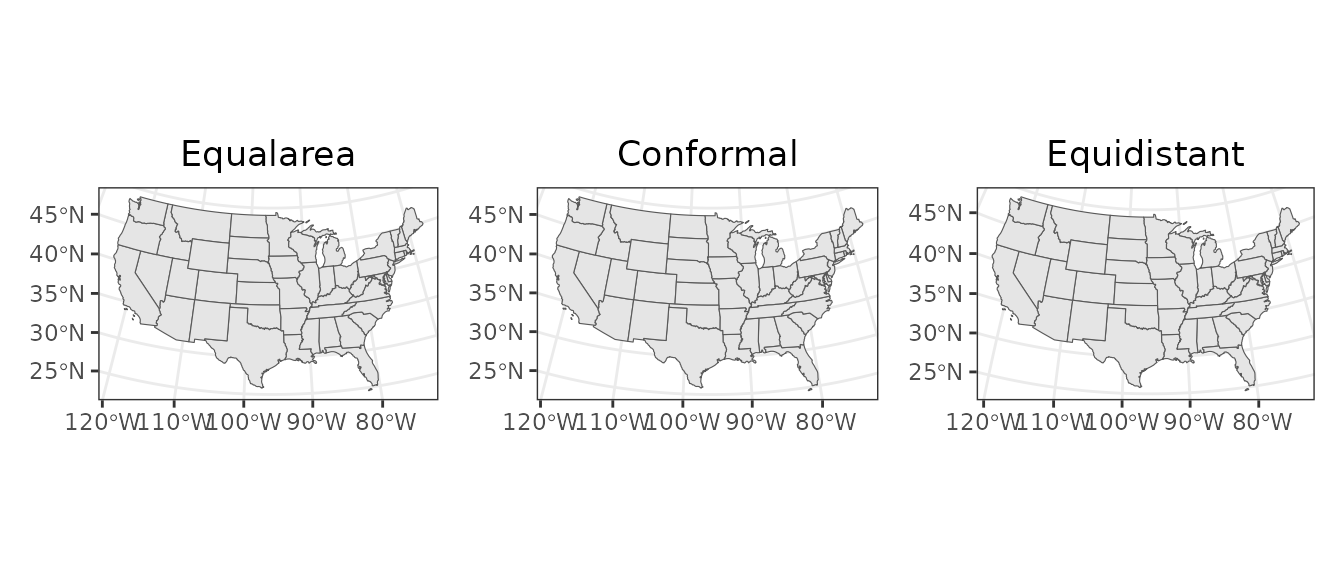
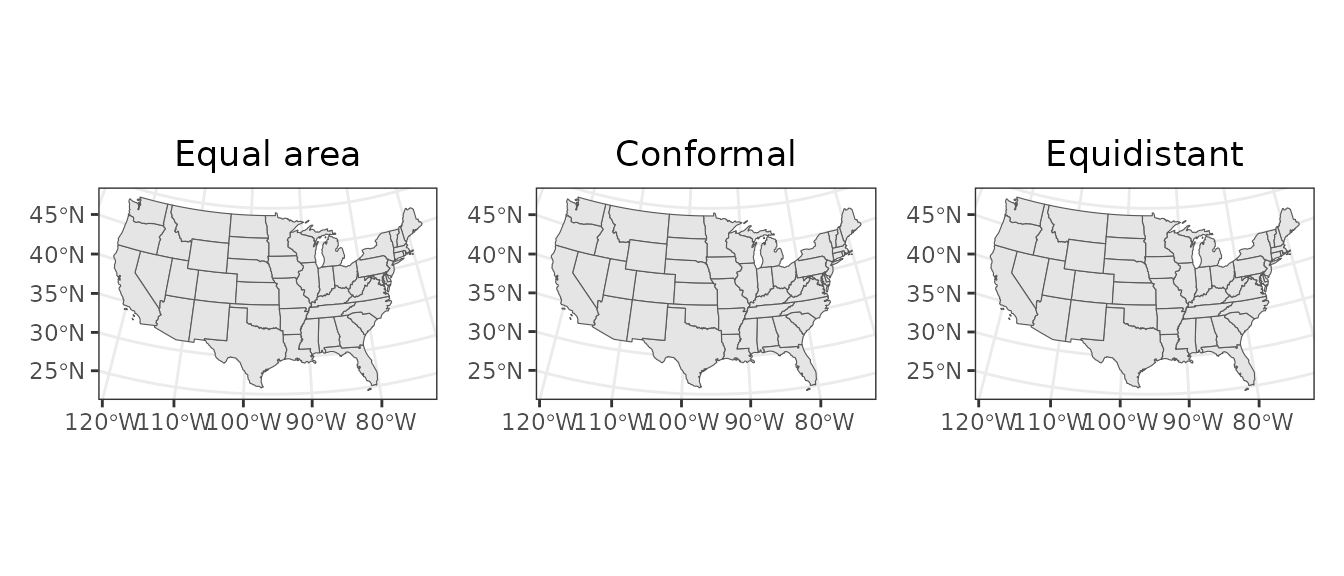
Deploying to gh-pages from @ sToney239/projWiz@8497ae9853b1d00fa35941c91100253194762885 🚀

diff --git a/articles/projWiz.html b/articles/projWiz.html
@@ -25,7 +25,7 @@
 
     <a class="navbar-brand me-2" href="../index.html">projWiz</a>
 
-    <small class="nav-text text-muted me-auto" data-bs-toggle="tooltip" data-bs-placement="bottom" title="">0.2.2</small>
+    <small class="nav-text text-muted me-auto" data-bs-toggle="tooltip" data-bs-placement="bottom" title="">0.2.3</small>
 
 
     <button class="navbar-toggler" type="button" data-bs-toggle="collapse" data-bs-target="#navbar" aria-controls="navbar" aria-expanded="false" aria-label="Toggle navigation">
@@ -102,7 +102,7 @@ projection wiki</a></p>
 <span>    <span class="fu"><a href="https://ggplot2.tidyverse.org/reference/theme.html" class="external-link">theme</a></span><span class="op">(</span>plot.title <span class="op">=</span> <span class="fu"><a href="https://ggplot2.tidyverse.org/reference/element.html" class="external-link">element_text</a></span><span class="op">(</span>hjust <span class="op">=</span> <span class="fl">0.5</span><span class="op">)</span><span class="op">)</span></span>
 <span><span class="op">}</span></span>
 <span><span class="fu">patchwork</span><span class="fu">::</span><span class="fu"><a href="https://patchwork.data-imaginist.com/reference/wrap_plots.html" class="external-link">wrap_plots</a></span><span class="op">(</span></span>
-<span>  <span class="fu"><a href="https://rdrr.io/r/base/list.html" class="external-link">list</a></span><span class="op">(</span><span class="fu">quick_proj_region_map</span><span class="op">(</span><span class="st">"Equalarea"</span><span class="op">)</span>,</span>
+<span>  <span class="fu"><a href="https://rdrr.io/r/base/list.html" class="external-link">list</a></span><span class="op">(</span><span class="fu">quick_proj_region_map</span><span class="op">(</span><span class="st">"Equal area"</span><span class="op">)</span>,</span>
 <span>       <span class="fu">quick_proj_region_map</span><span class="op">(</span><span class="st">"Conformal"</span><span class="op">)</span>,</span>
 <span>       <span class="fu">quick_proj_region_map</span><span class="op">(</span><span class="st">"Equidistant"</span><span class="op">)</span><span class="op">)</span></span>
 <span><span class="op">)</span></span></code></pre></div>
@@ -113,7 +113,7 @@ with similar optimized parameters have little difference.</p>
 <p>As mentioned, <code><a href="../reference/proj_equal_area.html">proj_equal_area()</a></code> is a pre-set parameter
 version of <code><a href="../reference/proj_region.html">proj_region()</a></code>. For example:</p>
 <div class="sourceCode" id="cb3"><pre class="downlit sourceCode r">
-<code class="sourceCode R"><span><span class="fu"><a href="../reference/proj_region.html">proj_region</a></span><span class="op">(</span><span class="fu">spData</span><span class="fu">::</span><span class="va"><a href="https://jakubnowosad.com/spData/reference/hawaii.html" class="external-link">hawaii</a></span>,<span class="st">"Equalarea"</span><span class="op">)</span></span>
+<code class="sourceCode R"><span><span class="fu"><a href="../reference/proj_region.html">proj_region</a></span><span class="op">(</span><span class="fu">spData</span><span class="fu">::</span><span class="va"><a href="https://jakubnowosad.com/spData/reference/hawaii.html" class="external-link">hawaii</a></span>,<span class="st">"Equal area"</span><span class="op">)</span></span>
 <span><span class="co">#&gt; [1] "+proj=laea +lon_0=-157.6784675 +lat_0=20.5786295 +datum=WGS84 +units=m +no_defs"</span></span>
 <span><span class="fu"><a href="../reference/proj_equal_area.html">proj_equal_area</a></span><span class="op">(</span><span class="fu">spData</span><span class="fu">::</span><span class="va"><a href="https://jakubnowosad.com/spData/reference/hawaii.html" class="external-link">hawaii</a></span><span class="op">)</span></span>
 <span><span class="co">#&gt; [1] "+proj=laea +lon_0=-157.6784675 +lat_0=20.5786295 +datum=WGS84 +units=m +no_defs"</span></span></code></pre></div>
@@ -139,8 +139,8 @@ the projection.</p>
 the central point’s longitude and latitude, or provide an object that
 allows the function to calculate the centroid.</p>
 <p>There are three main types of projections for hemisphere maps in
-<code>projWiz</code>: “Equalarea” (which is Equal area), “Conformal” and
-“Ortho” as showed below:</p>
+<code>projWiz</code>: “Equal area” (which is Equal area), “Conformal”
+and “Ortho” as showed below:</p>
 <div class="sourceCode" id="cb5"><pre class="downlit sourceCode r">
 <code class="sourceCode R"><span><span class="va">quick_hemisphere_map</span> <span class="op">=</span> <span class="kw">function</span><span class="op">(</span><span class="va">proj_type</span><span class="op">)</span> <span class="op">{</span></span>
 <span>  <span class="va">the_proj</span> <span class="op">=</span> <span class="fu"><a href="../reference/proj_hemisphere.html">proj_hemisphere</a></span><span class="op">(</span>obj <span class="op">=</span> <span class="fu"><a href="https://rdrr.io/r/base/list.html" class="external-link">list</a></span><span class="op">(</span>x <span class="op">=</span> <span class="fl">113</span>, y <span class="op">=</span> <span class="op">-</span><span class="fl">37</span><span class="op">)</span>, property <span class="op">=</span> <span class="va">proj_type</span><span class="op">)</span></span>
@@ -153,7 +153,7 @@ allows the function to calculate the centroid.</p>
 <span>    <span class="fu"><a href="https://ggplot2.tidyverse.org/reference/theme.html" class="external-link">theme</a></span><span class="op">(</span>plot.title <span class="op">=</span> <span class="fu"><a href="https://ggplot2.tidyverse.org/reference/element.html" class="external-link">element_text</a></span><span class="op">(</span>hjust <span class="op">=</span> <span class="fl">0.5</span><span class="op">)</span><span class="op">)</span></span>
 <span><span class="op">}</span></span>
 <span><span class="fu">patchwork</span><span class="fu">::</span><span class="fu"><a href="https://patchwork.data-imaginist.com/reference/wrap_plots.html" class="external-link">wrap_plots</a></span><span class="op">(</span></span>
-<span>  <span class="fu"><a href="https://rdrr.io/r/base/list.html" class="external-link">list</a></span><span class="op">(</span><span class="fu">quick_hemisphere_map</span><span class="op">(</span><span class="st">"Equalarea"</span><span class="op">)</span>,</span>
+<span>  <span class="fu"><a href="https://rdrr.io/r/base/list.html" class="external-link">list</a></span><span class="op">(</span><span class="fu">quick_hemisphere_map</span><span class="op">(</span><span class="st">"Equal area"</span><span class="op">)</span>,</span>
 <span>       <span class="fu">quick_hemisphere_map</span><span class="op">(</span><span class="st">"Conformal"</span><span class="op">)</span>,</span>
 <span>       <span class="fu">quick_hemisphere_map</span><span class="op">(</span><span class="st">"Ortho"</span><span class="op">)</span><span class="op">)</span></span>
 <span><span class="op">)</span></span></code></pre></div>

diff --git a/news.html b/news.html
@@ -1,5 +1,5 @@
 <!DOCTYPE html>
-<!-- Generated by pkgdown: do not edit by hand --><html lang="en"><head><meta http-equiv="Content-Type" content="text/html; charset=UTF-8"><meta charset="utf-8"><meta http-equiv="X-UA-Compatible" content="IE=edge"><meta name="viewport" content="width=device-width, initial-scale=1, shrink-to-fit=no"><title>projWiz 0.2.2 • projWiz</title><!-- favicons --><link rel="icon" type="image/png" sizes="96x96" href="favicon-96x96.png"><link rel="icon" type="”image/svg+xml”" href="favicon.svg"><link rel="apple-touch-icon" sizes="180x180" href="apple-touch-icon.png"><link rel="icon" sizes="any" href="favicon.ico"><link rel="manifest" href="site.webmanifest"><script src="deps/jquery-3.6.0/jquery-3.6.0.min.js"></script><meta name="viewport" content="width=device-width, initial-scale=1, shrink-to-fit=no"><link href="deps/bootstrap-5.3.1/bootstrap.min.css" rel="stylesheet"><script src="deps/bootstrap-5.3.1/bootstrap.bundle.min.js"></script><link href="deps/font-awesome-6.5.2/css/all.min.css" rel="stylesheet"><link href="deps/font-awesome-6.5.2/css/v4-shims.min.css" rel="stylesheet"><script src="deps/headroom-0.11.0/headroom.min.js"></script><script src="deps/headroom-0.11.0/jQuery.headroom.min.js"></script><script src="deps/bootstrap-toc-1.0.1/bootstrap-toc.min.js"></script><script src="deps/clipboard.js-2.0.11/clipboard.min.js"></script><script src="deps/search-1.0.0/autocomplete.jquery.min.js"></script><script src="deps/search-1.0.0/fuse.min.js"></script><script src="deps/search-1.0.0/mark.min.js"></script><!-- pkgdown --><script src="pkgdown.js"></script><meta property="og:title" content="projWiz 0.2.2"><meta property="og:image" content="https://stoney239.github.io/projWiz/logo.png"></head><body>
+<!-- Generated by pkgdown: do not edit by hand --><html lang="en"><head><meta http-equiv="Content-Type" content="text/html; charset=UTF-8"><meta charset="utf-8"><meta http-equiv="X-UA-Compatible" content="IE=edge"><meta name="viewport" content="width=device-width, initial-scale=1, shrink-to-fit=no"><title>projWiz 0.2.3 • projWiz</title><!-- favicons --><link rel="icon" type="image/png" sizes="96x96" href="favicon-96x96.png"><link rel="icon" type="”image/svg+xml”" href="favicon.svg"><link rel="apple-touch-icon" sizes="180x180" href="apple-touch-icon.png"><link rel="icon" sizes="any" href="favicon.ico"><link rel="manifest" href="site.webmanifest"><script src="deps/jquery-3.6.0/jquery-3.6.0.min.js"></script><meta name="viewport" content="width=device-width, initial-scale=1, shrink-to-fit=no"><link href="deps/bootstrap-5.3.1/bootstrap.min.css" rel="stylesheet"><script src="deps/bootstrap-5.3.1/bootstrap.bundle.min.js"></script><link href="deps/font-awesome-6.5.2/css/all.min.css" rel="stylesheet"><link href="deps/font-awesome-6.5.2/css/v4-shims.min.css" rel="stylesheet"><script src="deps/headroom-0.11.0/headroom.min.js"></script><script src="deps/headroom-0.11.0/jQuery.headroom.min.js"></script><script src="deps/bootstrap-toc-1.0.1/bootstrap-toc.min.js"></script><script src="deps/clipboard.js-2.0.11/clipboard.min.js"></script><script src="deps/search-1.0.0/autocomplete.jquery.min.js"></script><script src="deps/search-1.0.0/fuse.min.js"></script><script src="deps/search-1.0.0/mark.min.js"></script><!-- pkgdown --><script src="pkgdown.js"></script><meta property="og:title" content="projWiz 0.2.3"><meta property="og:image" content="https://stoney239.github.io/projWiz/logo.png"></head><body>
     <a href="#main" class="visually-hidden-focusable">Skip to contents</a>
 
 
@@ -7,7 +7,7 @@
 
     <a class="navbar-brand me-2" href="index.html">projWiz</a>
 
-    <small class="nav-text text-muted me-auto" data-bs-toggle="tooltip" data-bs-placement="bottom" title="">0.2.2</small>
+    <small class="nav-text text-muted me-auto" data-bs-toggle="tooltip" data-bs-placement="bottom" title="">0.2.3</small>
 
 
     <button class="navbar-toggler" type="button" data-bs-toggle="collapse" data-bs-target="#navbar" aria-controls="navbar" aria-expanded="false" aria-label="Toggle navigation">
@@ -31,13 +31,18 @@
 </nav><div class="container template-title-body">
 <div class="row">
   <main id="main" class="col-md-9"><div class="page-header">
-      <img src="logo.png" class="logo" alt=""><h1>projWiz 0.2.2</h1>
+      <img src="logo.png" class="logo" alt=""><h1>projWiz 0.2.3</h1>
       <small class="dont-index">Source: <a href="https://github.com/sToney239/projWiz/blob/master/news.md" class="external-link"><code>news.md</code></a></small>
     </div>
 
 
-<div id="projwiz-022" class="section level1">
+<div id="projwiz-023" class="section level1">
 
+<ul><li>simplify redundant codes in <code>proj_region</code>
+</li>
+</ul></div>
+<div class="section level1">
+<h1 id="projwiz-022">projWiz 0.2.2<a class="anchor" aria-label="anchor" href="#projwiz-022"></a></h1>
 <ul><li>add UTM zone number calculation</li>
 </ul></div>
 <div class="section level1">

diff --git a/reference/proj_region.html b/reference/proj_region.html
@@ -9,7 +9,7 @@ Please note that there's a longitudinal (less than 160) and latitudinal (less th
 
     <a class="navbar-brand me-2" href="../index.html">projWiz</a>
 
-    <small class="nav-text text-muted me-auto" data-bs-toggle="tooltip" data-bs-placement="bottom" title="">0.2.2</small>
+    <small class="nav-text text-muted me-auto" data-bs-toggle="tooltip" data-bs-placement="bottom" title="">0.2.3</small>
 
 
     <button class="navbar-toggler" type="button" data-bs-toggle="collapse" data-bs-target="#navbar" aria-controls="navbar" aria-expanded="false" aria-label="Toggle navigation">
@@ -47,7 +47,7 @@ Please note that there's a longitudinal (less than 160) and latitudinal (less th
     <h2 id="ref-usage">Usage<a class="anchor" aria-label="anchor" href="#ref-usage"></a></h2>
     <div class="sourceCode"><pre class="sourceCode r"><code><span><span class="fu">proj_region</span><span class="op">(</span></span>
 <span>  <span class="va">obj</span>,</span>
-<span>  property <span class="op">=</span> <span class="st">"Equalarea"</span>,</span>
+<span>  property <span class="op">=</span> <span class="st">"Equal area"</span>,</span>
 <span>  output_type <span class="op">=</span> <span class="st">"proj4"</span>,</span>
 <span>  datum <span class="op">=</span> <span class="st">"WGS84"</span>,</span>
 <span>  unit <span class="op">=</span> <span class="st">"m"</span></span>
@@ -65,7 +65,7 @@ Please note that there's a longitudinal (less than 160) and latitudinal (less th
 
 
 <dt id="arg-property">property<a class="anchor" aria-label="anchor" href="#arg-property"></a></dt>
-<dd><p>Projection property, should be one of "Equalarea", "Conformal" and "Equidistant".</p></dd>
+<dd><p>Projection property, should be one of "Equal area", "Conformal" and "Equidistant".</p></dd>
 
 
 <dt id="arg-output-type">output_type<a class="anchor" aria-label="anchor" href="#arg-output-type"></a></dt>
@@ -91,9 +91,11 @@ Please note that there's a longitudinal (less than 160) and latitudinal (less th
 
     <div class="section level2">
     <h2 id="ref-examples">Examples<a class="anchor" aria-label="anchor" href="#ref-examples"></a></h2>
-    <div class="sourceCode"><pre class="sourceCode r"><code><span class="r-in"><span><span class="fu">proj_region</span><span class="op">(</span><span class="fu"><a href="https://rdrr.io/r/base/c.html" class="external-link">c</a></span><span class="op">(</span>xmax<span class="op">=</span><span class="fl">112</span>,xmin<span class="op">=</span><span class="fl">156</span>,ymin<span class="op">=</span><span class="fl">6</span>,ymax<span class="op">=</span><span class="fl">23</span><span class="op">)</span>, <span class="st">"Equalarea"</span><span class="op">)</span></span></span>
+    <div class="sourceCode"><pre class="sourceCode r"><code><span class="r-in"><span><span class="fu">proj_region</span><span class="op">(</span><span class="fu"><a href="https://rdrr.io/r/base/c.html" class="external-link">c</a></span><span class="op">(</span>xmax<span class="op">=</span><span class="fl">112</span>,xmin<span class="op">=</span><span class="fl">156</span>,ymin<span class="op">=</span><span class="fl">6</span>,ymax<span class="op">=</span><span class="fl">23</span><span class="op">)</span>, <span class="st">"Equal area"</span><span class="op">)</span></span></span>
+<span class="r-msg co"><span class="r-pr">#&gt;</span> ## The map extent is relatively large, choose projection considering map shape</span>
 <span class="r-msg co"><span class="r-pr">#&gt;</span> ## East-west extent</span>
 <span class="r-msg co"><span class="r-pr">#&gt;</span> ## Close to equator</span>
+<span class="r-msg co"><span class="r-pr">#&gt;</span> ## Extent is not crossing equator</span>
 <span class="r-msg co"><span class="r-pr">#&gt;</span> ## Select Cylindrical equal area projection</span>
 <span class="r-out co"><span class="r-pr">#&gt;</span> [1] "+proj=cea +lon_0=-46 +lat_ts=14.5 +datum=WGS84 +units=m +no_defs"</span>
 </code></pre></div>

diff --git a/reference/proj_hemisphere.html b/reference/proj_hemisphere.html
@@ -7,7 +7,7 @@
 
     <a class="navbar-brand me-2" href="../index.html">projWiz</a>
 
-    <small class="nav-text text-muted me-auto" data-bs-toggle="tooltip" data-bs-placement="bottom" title="">0.2.2</small>
+    <small class="nav-text text-muted me-auto" data-bs-toggle="tooltip" data-bs-placement="bottom" title="">0.2.3</small>
 
 
     <button class="navbar-toggler" type="button" data-bs-toggle="collapse" data-bs-target="#navbar" aria-controls="navbar" aria-expanded="false" aria-label="Toggle navigation">
@@ -63,7 +63,7 @@
 
 
 <dt id="arg-property">property<a class="anchor" aria-label="anchor" href="#arg-property"></a></dt>
-<dd><p>Projection property, should be one of "Equalarea", "Conformal" and "ortho", the default value is ortho, for orthographic projection.</p></dd>
+<dd><p>Projection property, should be one of "Equal area", "Conformal" and "ortho", the default value is ortho, for orthographic projection.</p></dd>
 
 
 <dt id="arg-output-type">output_type<a class="anchor" aria-label="anchor" href="#arg-output-type"></a></dt>
@@ -85,7 +85,7 @@
 
     <div class="section level2">
     <h2 id="ref-examples">Examples<a class="anchor" aria-label="anchor" href="#ref-examples"></a></h2>
-    <div class="sourceCode"><pre class="sourceCode r"><code><span class="r-in"><span><span class="fu">proj_hemisphere</span><span class="op">(</span><span class="fu"><a href="https://rdrr.io/r/base/c.html" class="external-link">c</a></span><span class="op">(</span>x <span class="op">=</span> <span class="fl">123</span>, y <span class="op">=</span> <span class="fl">13</span><span class="op">)</span>, <span class="st">"Equalarea"</span><span class="op">)</span></span></span>
+    <div class="sourceCode"><pre class="sourceCode r"><code><span class="r-in"><span><span class="fu">proj_hemisphere</span><span class="op">(</span><span class="fu"><a href="https://rdrr.io/r/base/c.html" class="external-link">c</a></span><span class="op">(</span>x <span class="op">=</span> <span class="fl">123</span>, y <span class="op">=</span> <span class="fl">13</span><span class="op">)</span>, <span class="st">"Equal area"</span><span class="op">)</span></span></span>
 <span class="r-out co"><span class="r-pr">#&gt;</span> [1] "+proj=laea +lon_0=123 +lat_0=13 +datum=WGS84 +units=m +no_defs"</span>
 <span class="r-in"><span><span class="fu">proj_hemisphere</span><span class="op">(</span><span class="fu"><a href="https://rdrr.io/r/base/c.html" class="external-link">c</a></span><span class="op">(</span>xmax<span class="op">=</span><span class="fl">112</span>,xmin<span class="op">=</span><span class="fl">156</span>,ymin<span class="op">=</span><span class="fl">6</span>,ymax<span class="op">=</span><span class="fl">23</span><span class="op">)</span>, <span class="st">"Conformal"</span><span class="op">)</span></span></span>
 <span class="r-out co"><span class="r-pr">#&gt;</span> [1] "+proj=ortho +lon_0=-46 +lat_0=14.5 +datum=WGS84 +units=m +no_defs"</span>

diff --git a/reference/proj_equal_area.html b/reference/proj_equal_area.html
@@ -9,7 +9,7 @@ Please note that there's a longitudinal (less than 160) and latitudinal (less th
 
     <a class="navbar-brand me-2" href="../index.html">projWiz</a>
 
-    <small class="nav-text text-muted me-auto" data-bs-toggle="tooltip" data-bs-placement="bottom" title="">0.2.2</small>
+    <small class="nav-text text-muted me-auto" data-bs-toggle="tooltip" data-bs-placement="bottom" title="">0.2.3</small>
 
 
     <button class="navbar-toggler" type="button" data-bs-toggle="collapse" data-bs-target="#navbar" aria-controls="navbar" aria-expanded="false" aria-label="Toggle navigation">
@@ -85,6 +85,7 @@ Please note that there's a longitudinal (less than 160) and latitudinal (less th
 <span class="r-msg co"><span class="r-pr">#&gt;</span> ## The map extent is relatively large, choose projection considering map shape</span>
 <span class="r-msg co"><span class="r-pr">#&gt;</span> ## East-west extent</span>
 <span class="r-msg co"><span class="r-pr">#&gt;</span> ## Close to equator</span>
+<span class="r-msg co"><span class="r-pr">#&gt;</span> ## Extent is not crossing equator</span>
 <span class="r-msg co"><span class="r-pr">#&gt;</span> ## Select Cylindrical equal area projection</span>
 <span class="r-out co"><span class="r-pr">#&gt;</span> [1] "+proj=cea +lon_0=-46 +lat_ts=14.5 +datum=WGS84 +units=m +no_defs"</span>
 </code></pre></div>

diff --git a/reference/proj_conformal.html b/reference/proj_conformal.html
@@ -9,7 +9,7 @@ Please note that there's a longitudinal (less than 160) and latitudinal (less th
 
     <a class="navbar-brand me-2" href="../index.html">projWiz</a>
 
-    <small class="nav-text text-muted me-auto" data-bs-toggle="tooltip" data-bs-placement="bottom" title="">0.2.2</small>
+    <small class="nav-text text-muted me-auto" data-bs-toggle="tooltip" data-bs-placement="bottom" title="">0.2.3</small>
 
 
     <button class="navbar-toggler" type="button" data-bs-toggle="collapse" data-bs-target="#navbar" aria-controls="navbar" aria-expanded="false" aria-label="Toggle navigation">
@@ -85,6 +85,7 @@ Please note that there's a longitudinal (less than 160) and latitudinal (less th
 <span class="r-msg co"><span class="r-pr">#&gt;</span> ## The map extent is relatively large, choose projection considering map shape</span>
 <span class="r-msg co"><span class="r-pr">#&gt;</span> ## East-west extent</span>
 <span class="r-msg co"><span class="r-pr">#&gt;</span> ## Close to equator</span>
+<span class="r-msg co"><span class="r-pr">#&gt;</span> ## Extent is not crossing equator</span>
 <span class="r-msg co"><span class="r-pr">#&gt;</span> ## Select Mercator projection</span>
 <span class="r-out co"><span class="r-pr">#&gt;</span> [1] "+proj=merc +lon_0=-46 +lat_ts=14.5 +datum=WGS84 +units=m +no_defs"</span>
 </code></pre></div>

diff --git a/authors.html b/authors.html
@@ -7,7 +7,7 @@
 
     <a class="navbar-brand me-2" href="index.html">projWiz</a>
 
-    <small class="nav-text text-muted me-auto" data-bs-toggle="tooltip" data-bs-placement="bottom" title="">0.2.2</small>
+    <small class="nav-text text-muted me-auto" data-bs-toggle="tooltip" data-bs-placement="bottom" title="">0.2.3</small>
 
 
     <button class="navbar-toggler" type="button" data-bs-toggle="collapse" data-bs-target="#navbar" aria-controls="navbar" aria-expanded="false" aria-label="Toggle navigation">
@@ -49,13 +49,13 @@
 
       <p>Shi Z (2025).
 <em>projWiz: Auto-select map projection</em>.
-R package version 0.2.2, <a href="https://github.com/sToney239/projWiz" class="external-link">https://github.com/sToney239/projWiz</a>.
+R package version 0.2.3, <a href="https://github.com/sToney239/projWiz" class="external-link">https://github.com/sToney239/projWiz</a>.
 </p>
       <pre>@Manual{,
   title = {projWiz: Auto-select map projection},
   author = {Zhaoyang Shi},
   year = {2025},
-  note = {R package version 0.2.2},
+  note = {R package version 0.2.3},
   url = {https://github.com/sToney239/projWiz},
 }</pre>
     </div>

diff --git a/reference/printEWextent.html b/reference/printEWextent.html
@@ -7,7 +7,7 @@
 
     <a class="navbar-brand me-2" href="../index.html">projWiz</a>
 
-    <small class="nav-text text-muted me-auto" data-bs-toggle="tooltip" data-bs-placement="bottom" title="">0.2.2</small>
+    <small class="nav-text text-muted me-auto" data-bs-toggle="tooltip" data-bs-placement="bottom" title="">0.2.3</small>
 
 
     <button class="navbar-toggler" type="button" data-bs-toggle="collapse" data-bs-target="#navbar" aria-controls="navbar" aria-expanded="false" aria-label="Toggle navigation">
@@ -50,7 +50,7 @@
 
 
 <dl><dt id="arg-property">property<a class="anchor" aria-label="anchor" href="#arg-property"></a></dt>
-<dd><p>Projection property, should be one of "Equalarea", "Conformal" and "Equidistant".</p></dd>
+<dd><p>Projection property, should be one of "Equal area", "Conformal" and "Equidistant".</p></dd>
 
 
 <dt id="arg-center">center<a class="anchor" aria-label="anchor" href="#arg-center"></a></dt>

diff --git a/reference/printNSextent.html b/reference/printNSextent.html
@@ -7,7 +7,7 @@
 
     <a class="navbar-brand me-2" href="../index.html">projWiz</a>
 
-    <small class="nav-text text-muted me-auto" data-bs-toggle="tooltip" data-bs-placement="bottom" title="">0.2.2</small>
+    <small class="nav-text text-muted me-auto" data-bs-toggle="tooltip" data-bs-placement="bottom" title="">0.2.3</small>
 
 
     <button class="navbar-toggler" type="button" data-bs-toggle="collapse" data-bs-target="#navbar" aria-controls="navbar" aria-expanded="false" aria-label="Toggle navigation">
@@ -50,7 +50,7 @@
 
 
 <dl><dt id="arg-property">property<a class="anchor" aria-label="anchor" href="#arg-property"></a></dt>
-<dd><p>Projection property, should be one of "Equalarea", "Conformal" and "Equidistant".</p></dd>
+<dd><p>Projection property, should be one of "Equal area", "Conformal" and "Equidistant".</p></dd>
 
 
 <dt id="arg-center">center<a class="anchor" aria-label="anchor" href="#arg-center"></a></dt>

diff --git a/reference/printSquareFormat.html b/reference/printSquareFormat.html
@@ -7,7 +7,7 @@
 
     <a class="navbar-brand me-2" href="../index.html">projWiz</a>
 
-    <small class="nav-text text-muted me-auto" data-bs-toggle="tooltip" data-bs-placement="bottom" title="">0.2.2</small>
+    <small class="nav-text text-muted me-auto" data-bs-toggle="tooltip" data-bs-placement="bottom" title="">0.2.3</small>
 
 
     <button class="navbar-toggler" type="button" data-bs-toggle="collapse" data-bs-target="#navbar" aria-controls="navbar" aria-expanded="false" aria-label="Toggle navigation">
@@ -50,7 +50,7 @@
 
 
 <dl><dt id="arg-property">property<a class="anchor" aria-label="anchor" href="#arg-property"></a></dt>
-<dd><p>Projection property, should be one of "Equalarea", "Conformal" and "Equidistant".</p></dd>
+<dd><p>Projection property, should be one of "Equal area", "Conformal" and "Equidistant".</p></dd>
 
 
 <dt id="arg-center">center<a class="anchor" aria-label="anchor" href="#arg-center"></a></dt>

diff --git a/reference/proj_equidistant.html b/reference/proj_equidistant.html
@@ -9,7 +9,7 @@ Please note that there's a longitudinal (less than 160) and latitudinal (less th
 
     <a class="navbar-brand me-2" href="../index.html">projWiz</a>
 
-    <small class="nav-text text-muted me-auto" data-bs-toggle="tooltip" data-bs-placement="bottom" title="">0.2.2</small>
+    <small class="nav-text text-muted me-auto" data-bs-toggle="tooltip" data-bs-placement="bottom" title="">0.2.3</small>
 
 
     <button class="navbar-toggler" type="button" data-bs-toggle="collapse" data-bs-target="#navbar" aria-controls="navbar" aria-expanded="false" aria-label="Toggle navigation">

diff --git a/404.html b/404.html
@@ -26,7 +26,7 @@
 
     <a class="navbar-brand me-2" href="https://stoney239.github.io/projWiz/index.html">projWiz</a>
 
-    <small class="nav-text text-muted me-auto" data-bs-toggle="tooltip" data-bs-placement="bottom" title="">0.2.2</small>
+    <small class="nav-text text-muted me-auto" data-bs-toggle="tooltip" data-bs-placement="bottom" title="">0.2.3</small>
 
 
     <button class="navbar-toggler" type="button" data-bs-toggle="collapse" data-bs-target="#navbar" aria-controls="navbar" aria-expanded="false" aria-label="Toggle navigation">
